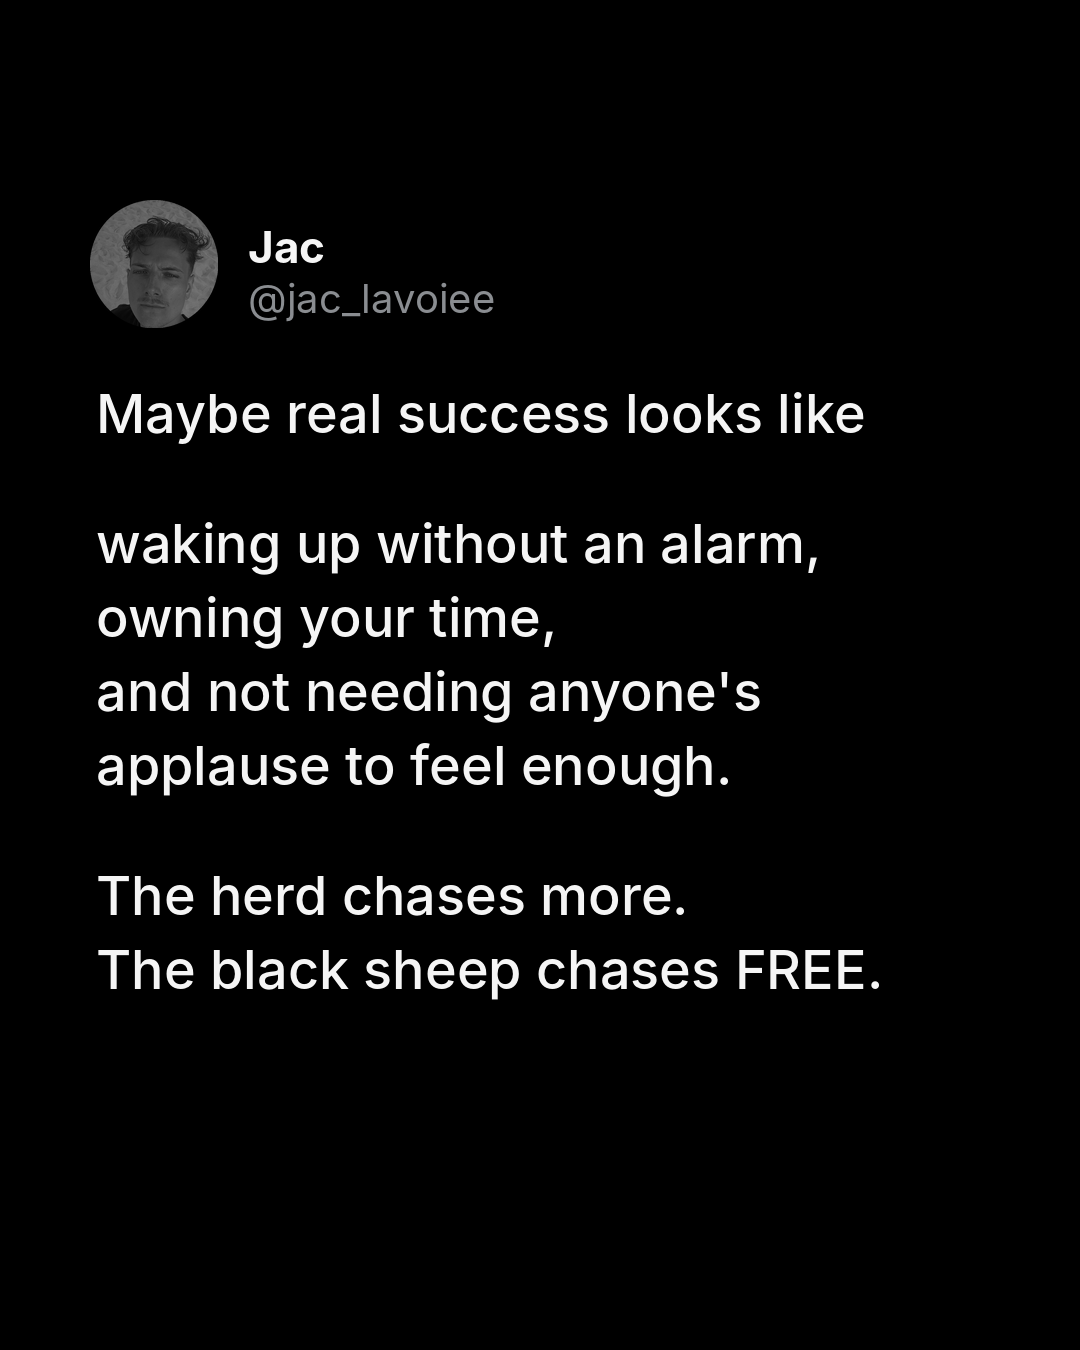
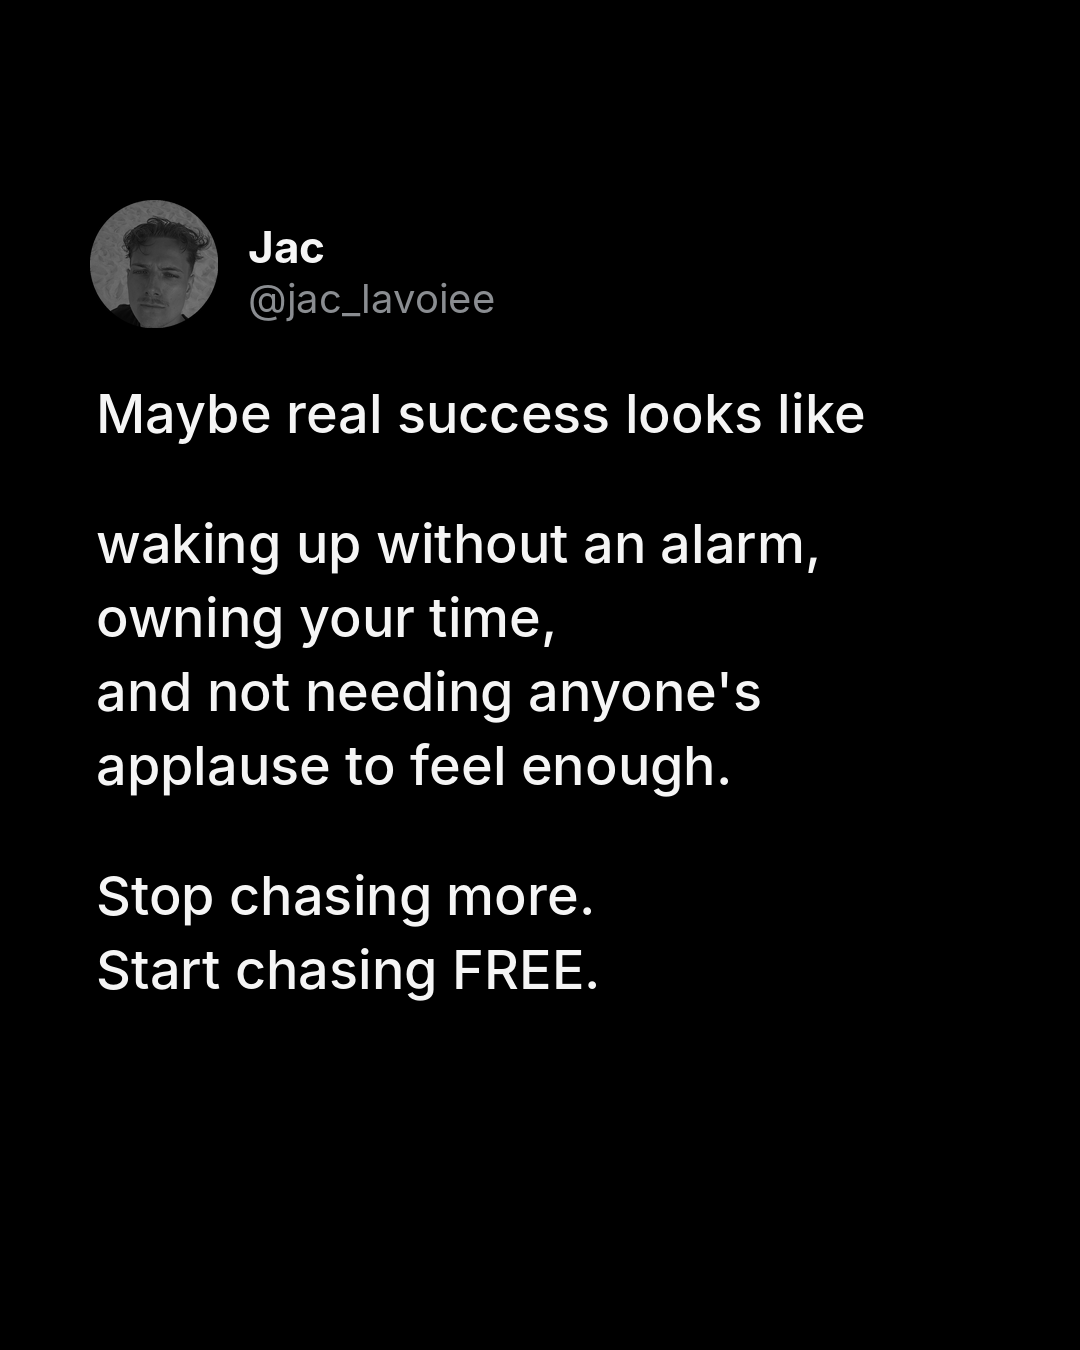
Drop black sheep / herd titles: rewrite 013 & 014 endings, playbook rule: no identity labels
Claude-Session: https://claude.ai/code/session_01CHbjGf6RoaAaTHwKT8d6MF

Changed region(s): [[0.0917, 0.6533, 0.7944, 0.7467]]

diff --git a/carousels/PLAYBOOK.md b/carousels/PLAYBOOK.md
@@ -24,12 +24,15 @@ Cover with an image, one sign per slide, then "If 3 or more felt familiar…" an
 - Point the punch at the reader's growth, not at "sleepers" or "society". No contested claims stated as fact, no medical or money promises.
 - The awakened-soul thread runs through everything: light, energy, the observer, taking back time, freedom and peace.
 
-## Brand angle: THE BLACK SHEEP (locked 2026-11-15)
-Jac is the black sheep who stepped off the default script and shows a different perspective so others wake up.
-Every carousel questions one "normal" thing (work, time, food, phones, school, money, success, comfort, the herd's opinion)
-and hands the reader a new lens or a practice. The punch points at the script, never at people. Ask questions instead of
-stating contested claims as fact. No medical, legal or money promises. The reader should finish feeling seen, not lectured.
-Recurring words: black sheep, the herd, the script, default settings, wake up, the others, time / freedom / peace, energy, the observer, light.
+## Brand angle (updated 2026-11-18): NO TITLES
+Jac questions the default script and shows a different perspective so people look inward and set themselves free.
+Every carousel questions one "normal" thing (work, time, food, phones, school, money, success, status, comfort, other people's opinions)
+and gives the reader a new lens or a practice. The core message: freedom comes from within, not from labels, titles or status.
+NEVER use identity labels or group titles: no "black sheep", "the herd", "sheep", "sleepers", "the awakened", "us vs. them".
+Talk to the reader directly ("you"), point at the conditioning, never at people. Ask questions instead of stating contested
+claims as fact. No medical, legal or money promises. The reader should finish feeling seen and free, not lectured.
+Captions: open with the hook line, end with the question CTA, then "Follow @jac_lavoiee" and 5 hashtags (no #blacksheep).
+Recurring words: conditioning, default settings, the script, look inward, wake up, time / freedom / peace, energy, the observer, light, worth.
 
 ## Daily routine: 3 carousels per day
 - One of each format: A (Method, 7 slides), B (3 standalone tweets), C (numbered list, 7 slides).
